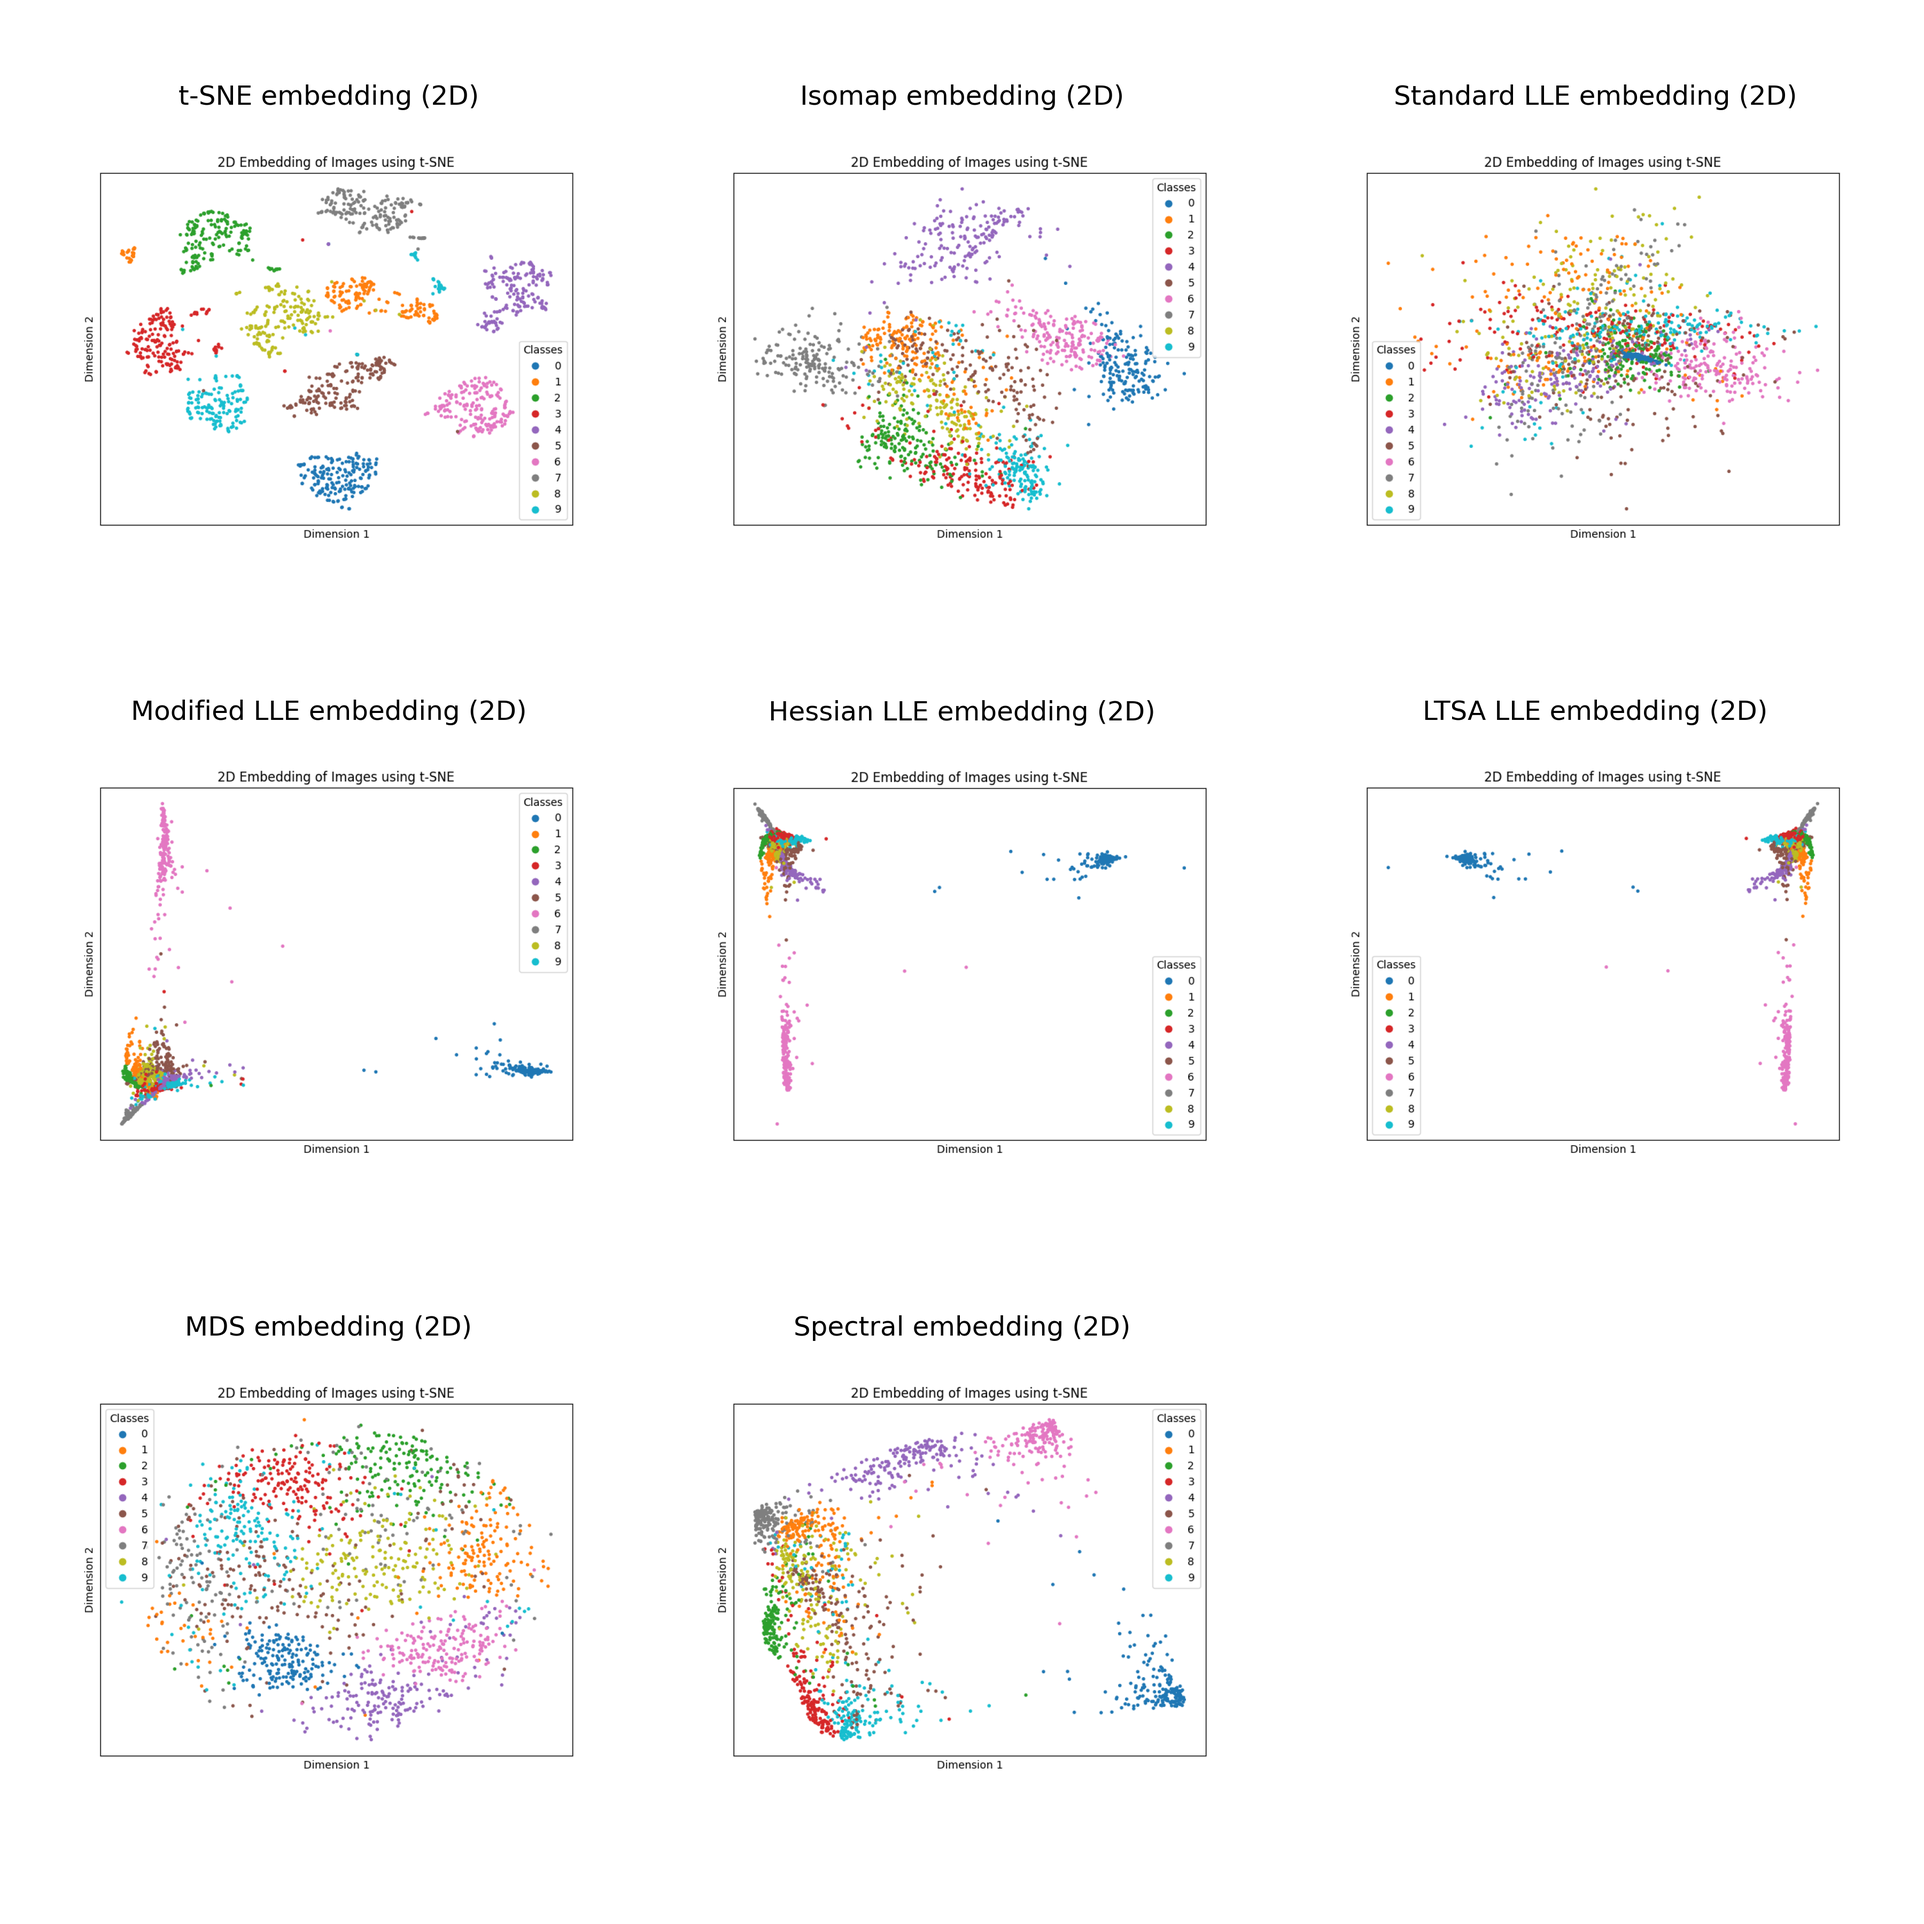
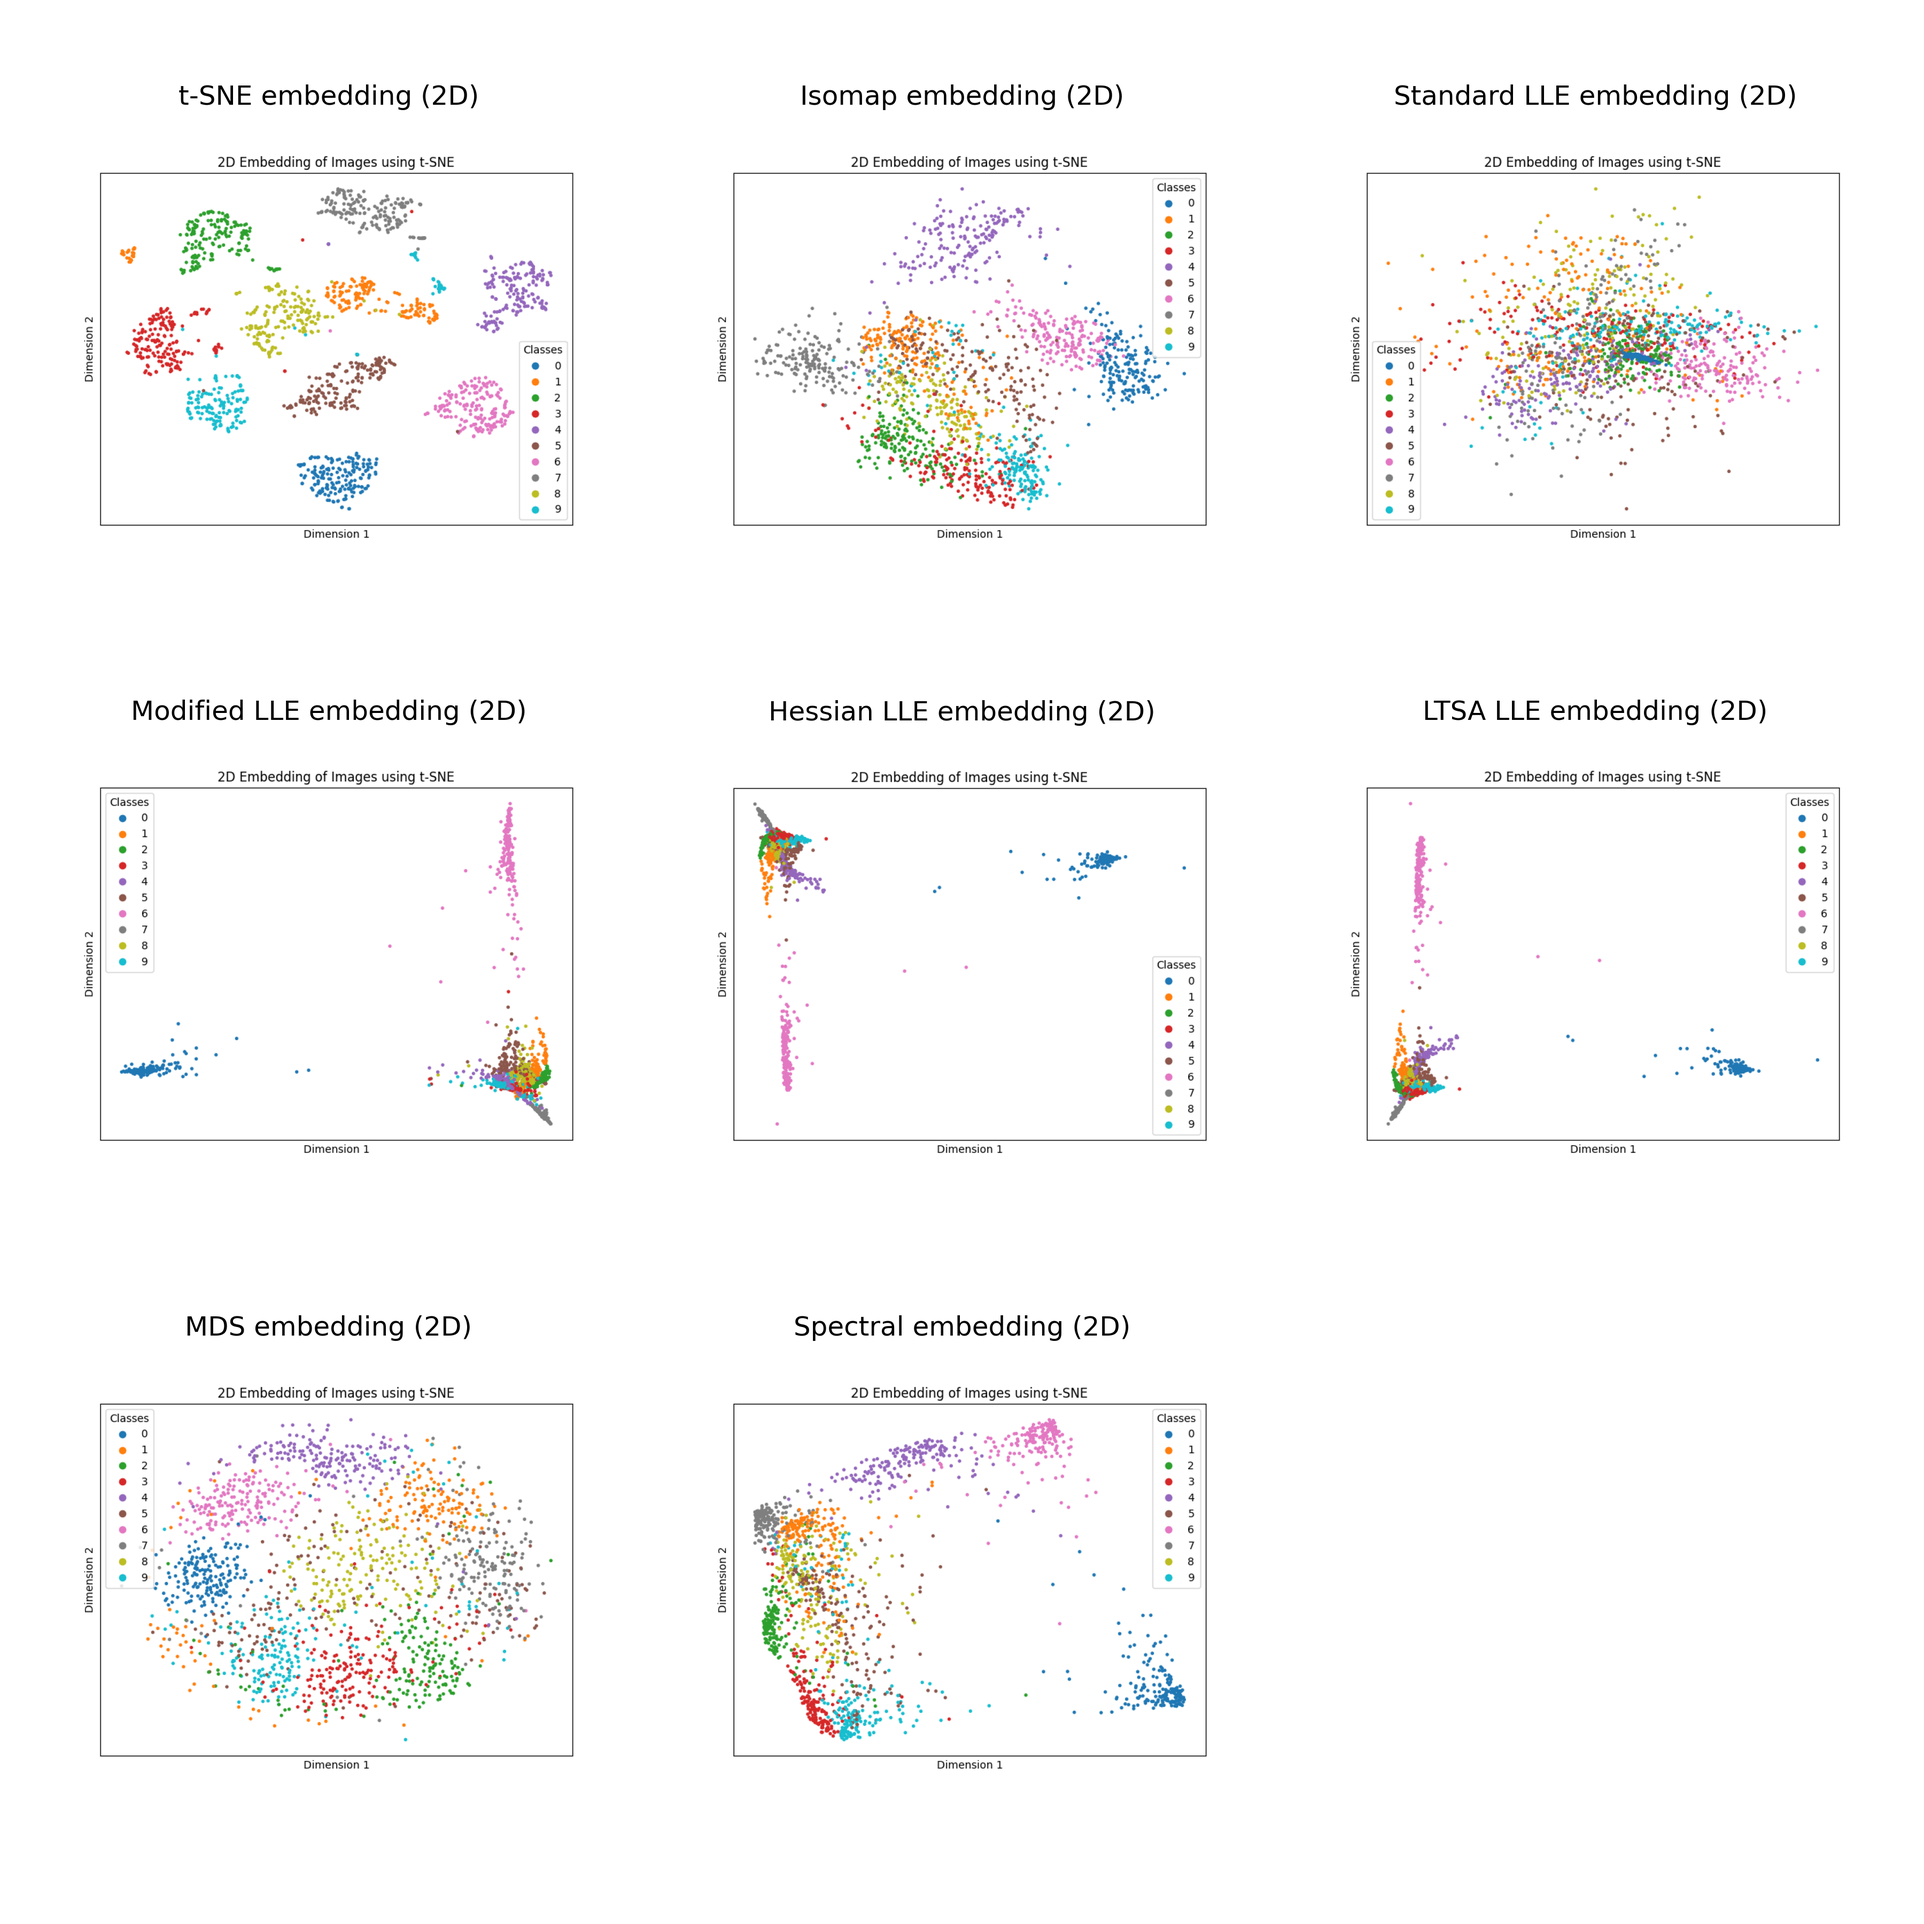
chore: generate all embeddings of MNIST digits

diff --git a/tests/test_visualizations.py b/tests/test_visualizations.py
@@ -29,30 +29,6 @@ def test_visualize_images_bordered(noise_images):
     )
 
 
-def test_tsne_2d_embedding():
-    digits = load_digits()
-    X = digits.images
-    y = digits.target
-
-    try:
-        _, fig = get_embeddings(X, y, dims=2, return_plot=True)
-        fig.savefig("examples/2d_TSNE_embedding.png", dpi=300)
-    except Exception as e:
-        pytest.fail(f"get_embeddings raised an exception: {e}")
-
-
-def test_tsne_3d_embedding():
-    digits = load_digits()
-    X = digits.images
-    y = digits.target
-
-    try:
-        _, fig = get_embeddings(X, y, dims=3, return_plot=True)
-        fig.savefig("examples/3d_TSNE_embedding.png", dpi=300)
-    except Exception as e:
-        pytest.fail(f"get_embeddings raised an exception: {e}")
-
-
 def test_compare_2d_embeddings():
     digits = load_digits()
     X = digits.images
@@ -71,6 +47,7 @@ def test_compare_2d_embeddings():
 
     rows = cols = math.ceil(math.sqrt(len(manifold_types)))
     fig, axes = plt.subplots(rows, cols, figsize=(4 * cols, 4 * rows))
+    fig.suptitle("MNIST Digits (8x8) Projected on a Lower Dimensional Space")
 
     axes = axes.flatten()
 
@@ -83,6 +60,8 @@ def test_compare_2d_embeddings():
         axes[i].imshow(fig_2d.canvas.buffer_rgba())
         axes[i].set_title(f"{embedding_type.value} (2D)")
         axes[i].axis("off")
+        fig_2d.savefig(
+            f"examples/embeddings/2d_{embedding_type.name}_embedding.png", dpi=300)
 
     for j in range(i + 1, len(axes)):  # Hide extra subplots
         axes[j].axis("off")
@@ -122,6 +101,8 @@ def test_compare_3d_embeddings():
         axes[i].imshow(fig_3d.canvas.buffer_rgba())
         axes[i].set_title(f"{embedding_type.value} (3D)")
         axes[i].axis("off")
+        fig_3d.savefig(
+            f"examples/embeddings/3d_{embedding_type.name}_embedding.png", dpi=300)
 
     for j in range(i + 1, len(axes)):  # Hide extra subplots
         axes[j].axis("off")
